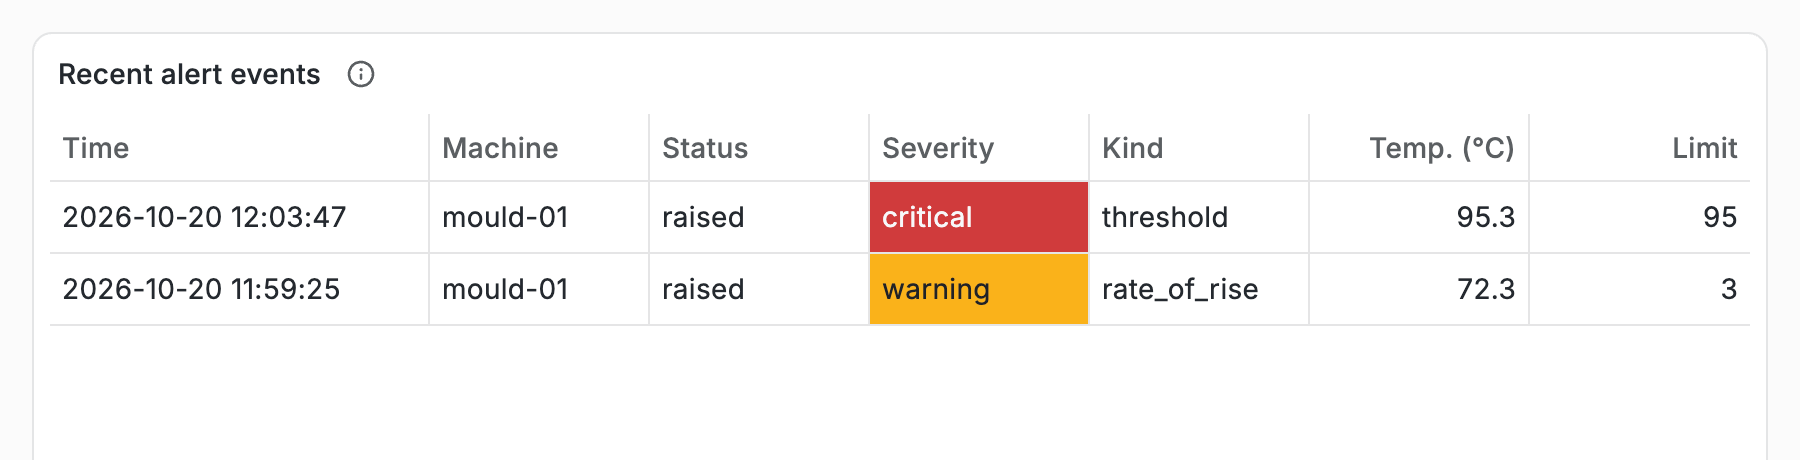
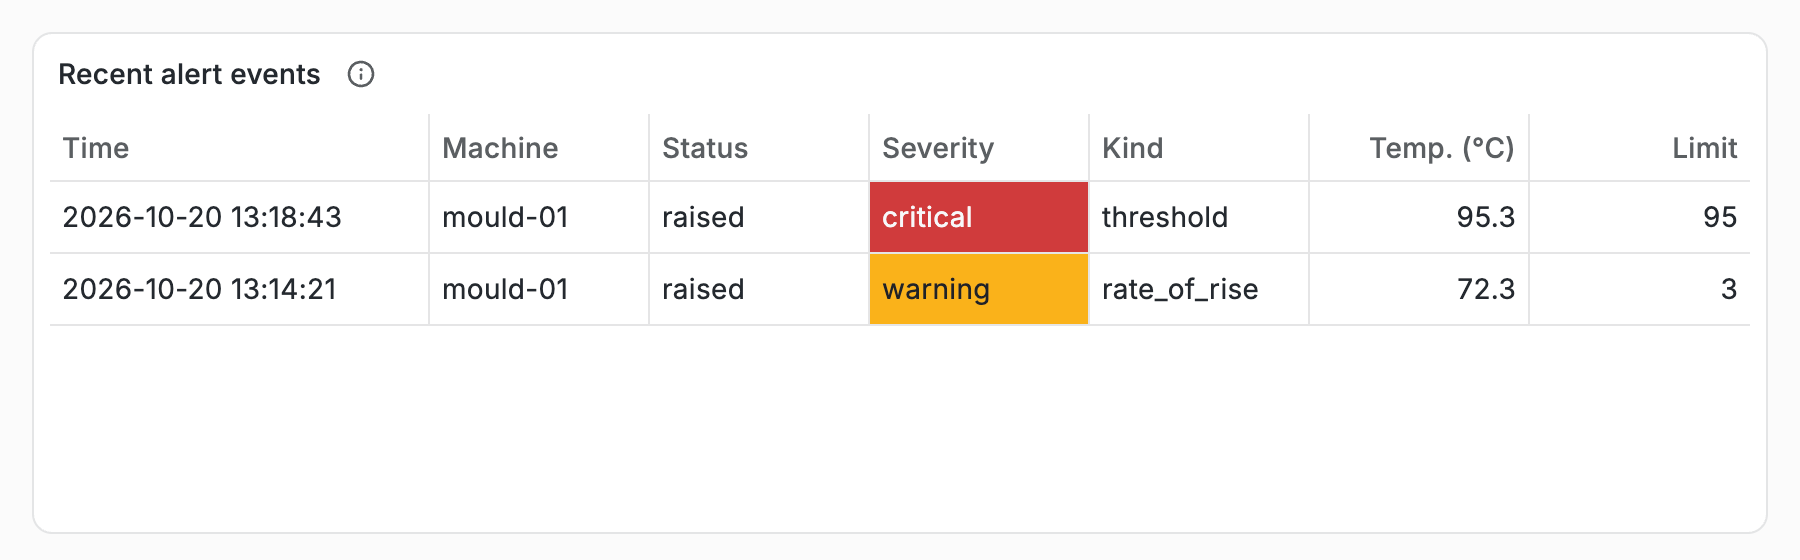
docs(figures): retake scenario screenshots and the M4 results on the committed code, B7

diff --git a/docs/figures/README.md b/docs/figures/README.md
@@ -46,20 +46,21 @@ Grafana version 13.2.4.
 
 ## Demonstration scenario
 
-Scenario: `uv run python -m bladewatch scenario --reset --repetitions 1` with the seed 1.
-The machine `mould-01` runs normally for 100 seconds and then rises at 5 degrees Celsius
-per minute, the rate warning is raised 134 seconds after the start at 72.3 degrees Celsius,
-and the critical alert 396 seconds after the start at 95.3 degrees Celsius. The pictures
-were taken on 2026-10-20 with the Grafana version 13.2.4. The first picture was captured
-at the moment of the critical alert, about 12 seconds after the critical reading, with a
-page width of 1100 pixels. The two pictures of the history were captured after the end of
-the run with the range of the last 9 minutes, at a width of 900 pixels.
+Scenario: `uv run python -m bladewatch scenario --reset`, the third run of the measurement M4 on the
+commit 60af417 with the seed 1. The machine `mould-01` runs normally for 100 seconds and then
+rises at 5 degrees Celsius per minute, the rate warning is raised 134 seconds after the start at
+72.3 degrees Celsius, and the critical alert 396 seconds after the start at 95.3 degrees Celsius.
+The pictures were taken on 2026-10-20 with Grafana 13.2.4. The overview was captured 36 seconds
+after the critical reading, with the critical alert 0.151 seconds after its measurement in the
+database, at a page width of 1100 pixels. The chart of the moulds was captured at the same width
+and the table of alert events at 900 pixels, both after the end of the run with the range of the
+last 9 minutes.
 
 | File | View | Address after the base address | Size in pixels |
 | --- | --- | --- | --- |
-| `dashboard-overview-critical-alert-scenario.png` | The first screen at the moment of the critical alert: `mould-01` is critical in the state table, the alert is in the table of open alerts, and the line of the mould has crossed the critical threshold | `?orgId=1&from=now-10m&to=now&var-machine=mould-01&theme=light&kiosk&_dash.hideTimePicker&_dash.hideVariables` | 2200 by 1846 |
-| `dashboard-moulds-temperature-incident-scenario.png` | The course of the incident: four moulds, one of them rising from 70 degrees Celsius through the warning threshold of 80 and the critical threshold of 95 | `?orgId=1&from=now-9m&to=now&viewPanel=panel-2&theme=light&kiosk&_dash.hideTimePicker&_dash.hideVariables` | 1800 by 1060 |
-| `dashboard-alert-events-incident-scenario.png` | The two alert events of the incident, the rate of rise warning and the critical alert, with their times in UTC | `?orgId=1&from=now-9m&to=now&viewPanel=panel-6&theme=light&kiosk&_dash.hideTimePicker&_dash.hideVariables` | 1800 by 460 |
+| `dashboard-overview-critical-alert-scenario.png` | The first screen at the moment of the critical alert: `mould-01` is critical in the state table, the alert is in the table of open alerts, and the line of the mould has crossed the critical threshold | `?orgId=1&from=now-10m&to=now&var-machine=mould-01&theme=light&kiosk&_dash.hideTimePicker&_dash.hideVariables` | 2200 by 1848 |
+| `dashboard-moulds-temperature-incident-scenario.png` | The course of the incident: four moulds, one of them rising from 70 degrees Celsius through the warning threshold of 80 and the critical threshold of 95 | `?orgId=1&from=now-9m&to=now&viewPanel=panel-2&theme=light&kiosk&_dash.hideTimePicker&_dash.hideVariables` | 2200 by 1868 |
+| `dashboard-alert-events-incident-scenario.png` | The two alert events of the incident, the rate of rise warning and the critical alert, with their times in UTC | `?orgId=1&from=now-9m&to=now&viewPanel=panel-6&theme=light&kiosk&_dash.hideTimePicker&_dash.hideVariables` | 1800 by 560 |
 | `scenario-notification-output.txt` | The terminal output of the scenario with the notification of the contact point as the receiver logged it, cut to the lines of the start, the notification, and the end of the production | not a screenshot | text |
 | `m4-demonstration-scenario.md` | The results of the measurement M4 over three undisturbed runs, with the commit, the date, and the scenario | not a screenshot | table |
 

diff --git a/docs/figures/m4-demonstration-scenario.md b/docs/figures/m4-demonstration-scenario.md
@@ -1,24 +1,24 @@
 # M4, the demonstration scenario
 
 - date: 2026-10-20
-- commit: 58b71f1, with uncommitted changes
+- commit: 60af417
 - scenario: machine mould-01, seed 1, 100 seconds of normal operation, then 5 degrees Celsius per minute, 460 seconds per run, 3 repetitions
 
 ## The critical alert in every run, in seconds
 
-| Run | measurement to broker | broker to processor | processor to database | measurement to alert in the database | measurement to alert on the dashboard query | measurement to notification | Note |
-| --- | --- | --- | --- | --- | --- | --- | --- |
-| 1 | 0.016 | 0.168 | 0.002 | 0.186 | 0.284 | 28.677 |  |
-| 2 | 0.016 | 0.192 | 0.005 | 0.213 | 0.247 | 28.238 |  |
-| 3 | 0.012 | 0.190 | 0.012 | 0.214 | 0.251 | 27.734 |  |
+| Run | measurement to broker | broker to processor | processor to database | measurement to alert in the database | measurement to alert on the dashboard query | measurement to notification | measurement to firing state in Grafana | firing state to notification | Note |
+| --- | --- | --- | --- | --- | --- | --- | --- | --- | --- |
+| 1 | 0.014 | 0.116 | 0.004 | 0.134 | 0.202 | 27.161 | 7.135 | 20.026 |  |
+| 2 | 0.019 | 0.082 | 0.005 | 0.106 | 0.153 | 26.768 | 6.751 | 20.017 |  |
+| 3 | 0.016 | 0.131 | 0.003 | 0.151 | 0.185 | 26.305 | 6.284 | 20.020 |  |
 
 ## Over the runs, in seconds
 
-| Statistic | measurement to broker | broker to processor | processor to database | measurement to alert in the database | measurement to alert on the dashboard query | measurement to notification |
-| --- | --- | --- | --- | --- | --- | --- |
-| median | 0.016 | 0.190 | 0.005 | 0.213 | 0.251 | 28.238 |
-| 95th percentile | 0.016 | 0.192 | 0.011 | 0.214 | 0.281 | 28.633 |
-| maximum | 0.016 | 0.192 | 0.012 | 0.214 | 0.284 | 28.677 |
+| Statistic | measurement to broker | broker to processor | processor to database | measurement to alert in the database | measurement to alert on the dashboard query | measurement to notification | measurement to firing state in Grafana | firing state to notification |
+| --- | --- | --- | --- | --- | --- | --- | --- | --- |
+| median | 0.016 | 0.116 | 0.004 | 0.134 | 0.185 | 26.768 | 6.751 | 20.020 |
+| 95th percentile | 0.019 | 0.130 | 0.005 | 0.149 | 0.200 | 27.121 | 7.096 | 20.025 |
+| maximum | 0.019 | 0.131 | 0.005 | 0.151 | 0.202 | 27.161 | 7.135 | 20.026 |
 
 The statistics are taken over 3 runs, one critical alert each.
 
@@ -26,18 +26,18 @@ The statistics are taken over 3 runs, one critical alert each.
 
 | Run | Stage | Median | 95th percentile | Maximum |
 | --- | --- | --- | --- | --- |
-| 1 | measured to broker | 0.015 | 0.019 | 0.516 |
-| 1 | broker to processor | 0.108 | 0.205 | 0.219 |
-| 1 | processor to stored | 0.002 | 0.004 | 0.009 |
-| 1 | measured to stored | 0.127 | 0.222 | 0.537 |
-| 2 | measured to broker | 0.012 | 0.018 | 0.510 |
-| 2 | broker to processor | 0.110 | 0.204 | 0.217 |
-| 2 | processor to stored | 0.002 | 0.003 | 0.005 |
-| 2 | measured to stored | 0.124 | 0.219 | 0.552 |
-| 3 | measured to broker | 0.012 | 0.017 | 0.514 |
-| 3 | broker to processor | 0.106 | 0.199 | 0.218 |
-| 3 | processor to stored | 0.002 | 0.003 | 0.011 |
-| 3 | measured to stored | 0.121 | 0.213 | 0.567 |
+| 1 | measured to broker | 0.013 | 0.019 | 0.507 |
+| 1 | broker to processor | 0.110 | 0.201 | 0.217 |
+| 1 | processor to stored | 0.002 | 0.003 | 0.009 |
+| 1 | measured to stored | 0.126 | 0.218 | 0.547 |
+| 2 | measured to broker | 0.013 | 0.018 | 0.515 |
+| 2 | broker to processor | 0.109 | 0.203 | 0.218 |
+| 2 | processor to stored | 0.002 | 0.004 | 0.006 |
+| 2 | measured to stored | 0.128 | 0.221 | 0.540 |
+| 3 | measured to broker | 0.014 | 0.018 | 0.506 |
+| 3 | broker to processor | 0.110 | 0.202 | 0.217 |
+| 3 | processor to stored | 0.002 | 0.004 | 0.007 |
+| 3 | measured to stored | 0.126 | 0.218 | 0.547 |
 
 ## Repeatability
 
